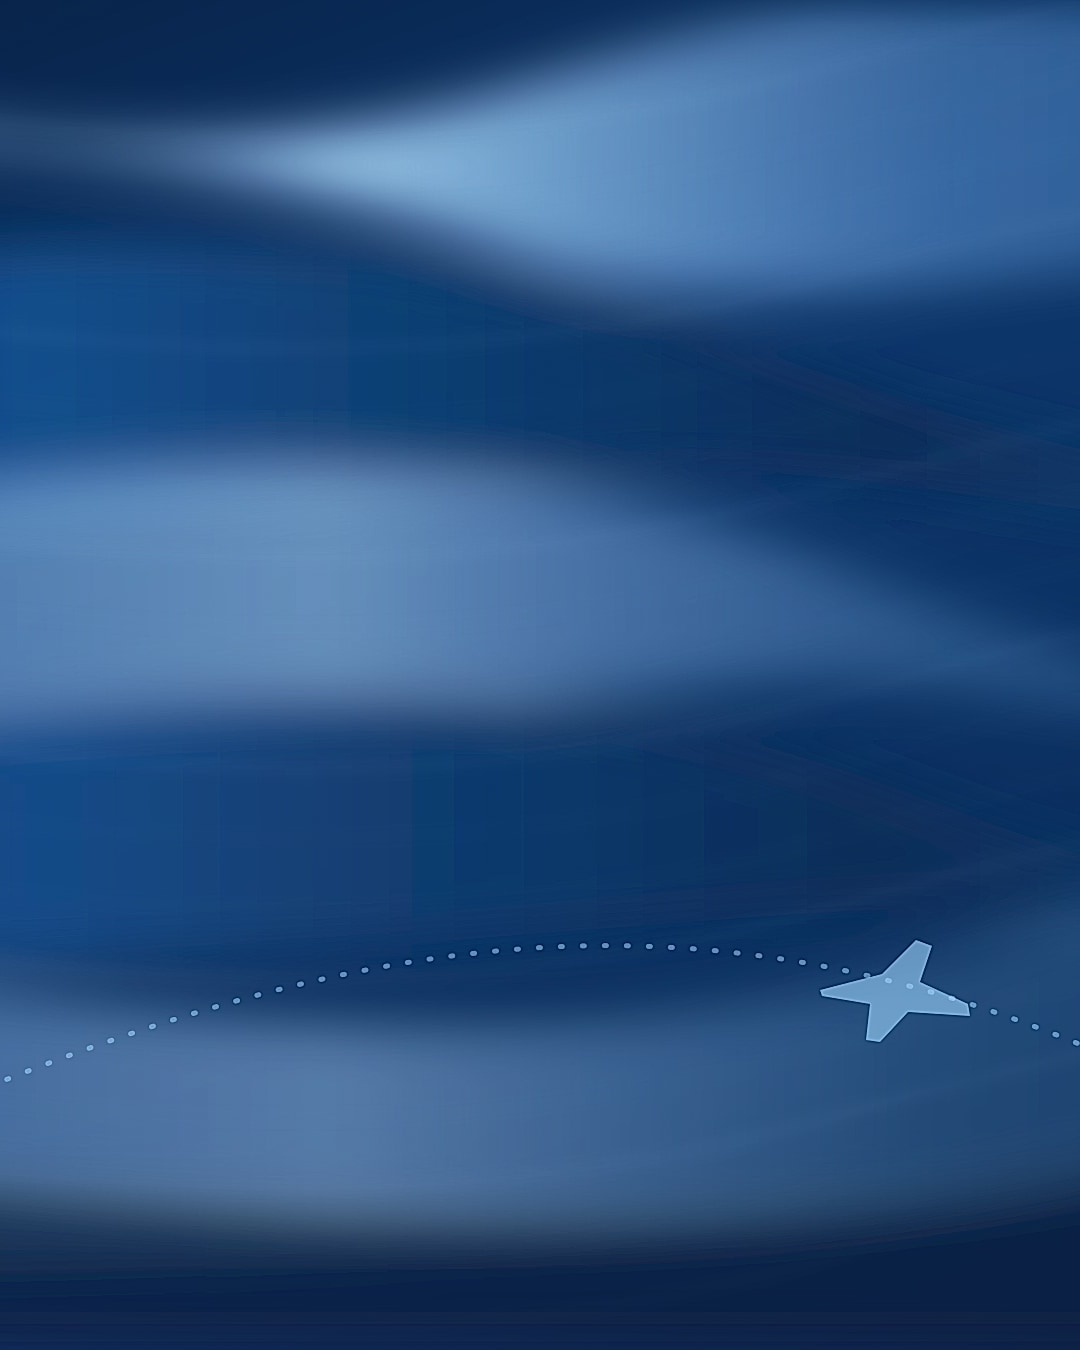
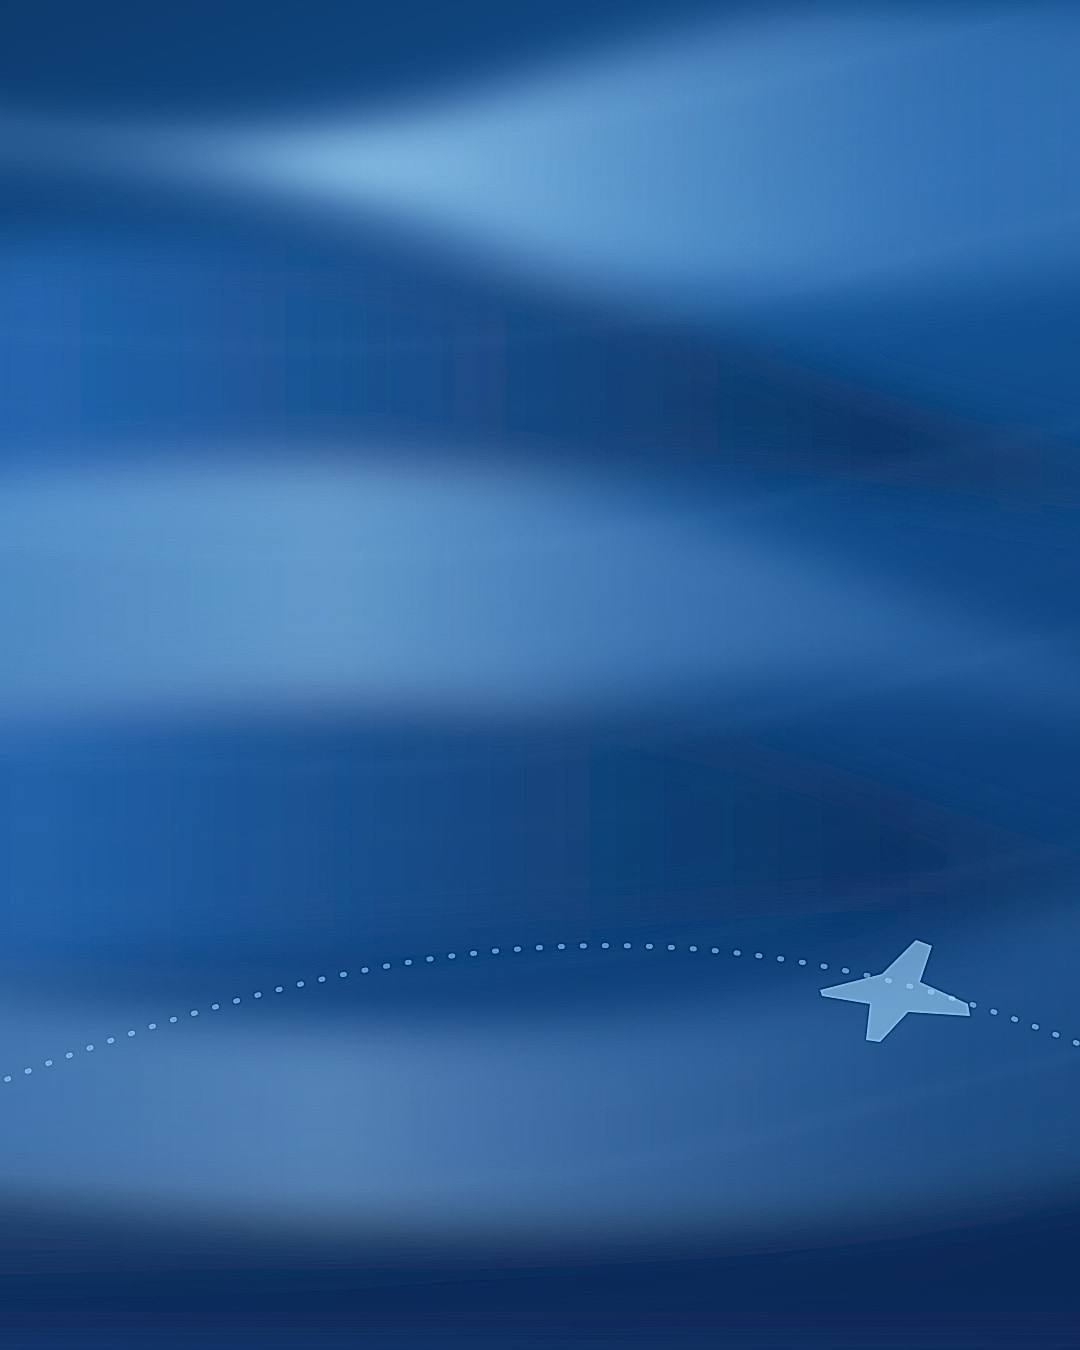
Refine middle slide spacing, shrink and soften emblem, use three blue tones

diff --git a/design/instagram/stay-tuned.tsx b/design/instagram/stay-tuned.tsx
@@ -90,8 +90,8 @@ function Panel({
 }
 
 function Identity({ assetBaseUrl }: { assetBaseUrl: string }) {
-  const width = 1020;
-  const height = 285;
+  const width = 820;
+  const height = 359;
 
   return (
     <div
@@ -105,11 +105,11 @@ function Identity({ assetBaseUrl }: { assetBaseUrl: string }) {
     >
       <span style={{ fontSize: 52, fontWeight: 700, letterSpacing: 7, color: INK }}>MUNAIR'27</span>
       <img
-        src={`${assetBaseUrl}/design/instagram/stay-photo-transparent.png`}
+        src={`${assetBaseUrl}/design/instagram/stay-emblem.png`}
         alt=""
         width={width}
         height={height}
-        style={{ marginTop: 34, width, height, opacity: 0.55, filter: "drop-shadow(0px 8px 18px rgba(0, 4, 12, 0.6))" }}
+        style={{ marginTop: 34, width, height, opacity: 0.86, filter: "drop-shadow(0px 6px 14px rgba(8, 30, 62, 0.35))" }}
       />
       <span style={{ marginTop: 30, fontSize: 38, fontWeight: 500, letterSpacing: 4, color: ACCENT }}>
         #wingsofdiplomacy
@@ -128,7 +128,7 @@ function Statement() {
         style={{
           display: "flex",
           marginTop: 26,
-          marginLeft: -34,
+          marginLeft: 30,
           fontSize: 178,
           fontWeight: 700,
           lineHeight: 0.88,
@@ -143,7 +143,7 @@ function Statement() {
         style={{
           display: "flex",
           marginTop: -18,
-          marginLeft: -26,
+          marginLeft: 46,
           fontSize: 390,
           fontWeight: 700,
           lineHeight: 0.82,
